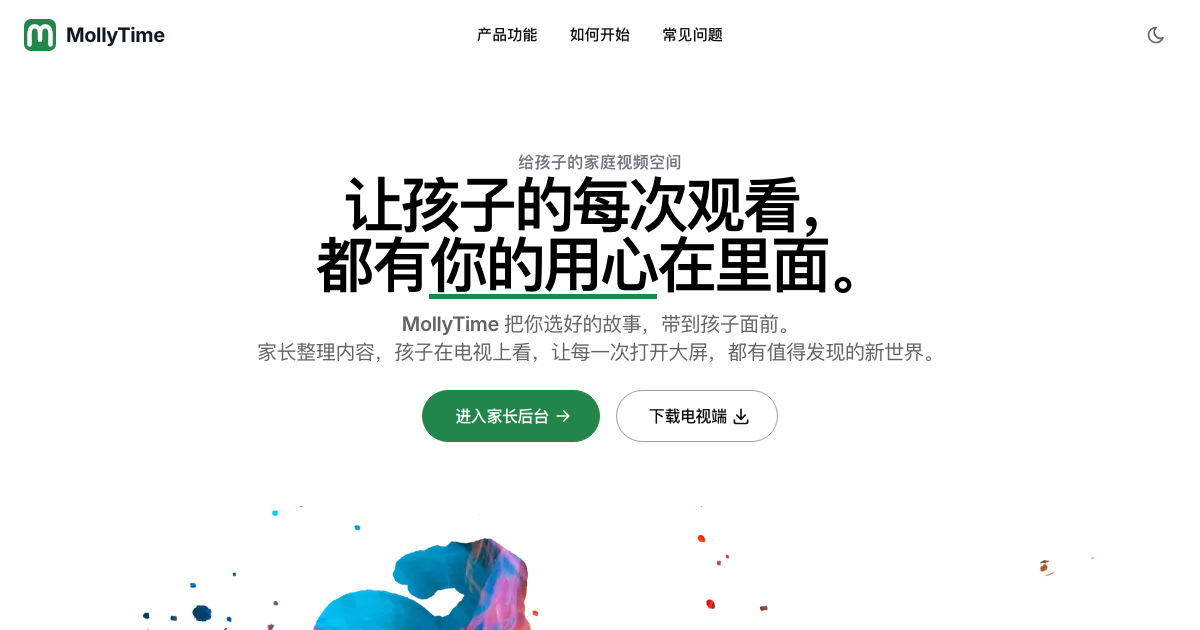
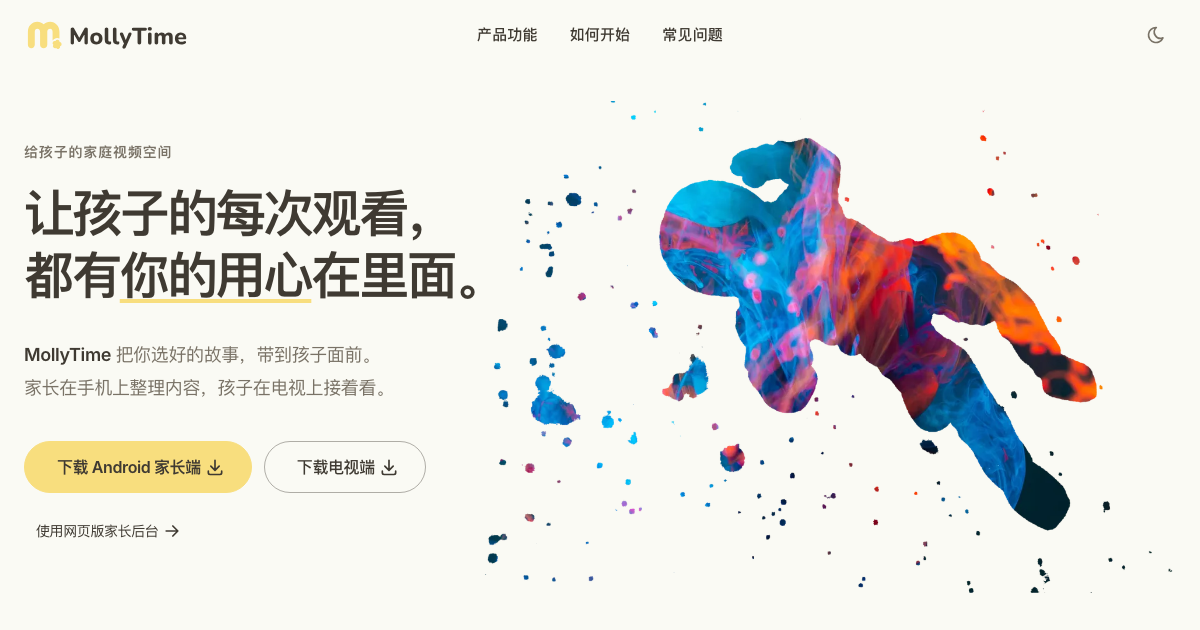
style(site): compose homepage around full-color explorer artwork
Separate the headline and download area from the full-color illustration, align the desktop grid with navigation, and adapt the composition for phones. Restore dark-mode TV button contrast and refresh social previews. Site build and six browser checks pass; layouts verified from 320 to 1920 pixels.

diff --git a/apps/site/tests/site.spec.ts b/apps/site/tests/site.spec.ts
@@ -34,6 +34,7 @@ test('homepage has working navigation, metadata, FAQ and no browser errors', asy
   await page.getByRole('button', { name: '切换深浅色主题' }).click();
   await expect(page.locator('html')).toHaveClass(/dark/);
   await expect(page.getByRole('button', { name: '下载 Android 家长端' })).toHaveCSS('color', 'rgb(63, 58, 50)');
+  await expect(page.getByRole('button', { name: '下载电视端' })).toHaveCSS('color', 'rgb(234, 229, 217)');
   await capture(page, 'test-results/dark.png');
   await page.getByRole('button', { name: '切换深浅色主题' }).click();
   await expect(page.locator('html')).not.toHaveClass(/dark/);

diff --git a/apps/site/README.md b/apps/site/README.md
@@ -19,7 +19,7 @@ pnpm --dir apps/site test # 在构建后验证静态页面及下载逻辑
 
 首屏主按钮下载 Android 家长端，旁边保留电视端下载，下方可进入网页版家长后台。下载按钮按点击读取 `/api/client/releases/latest?packageName=…` 的对应正式频道（家长端 `com.molly.parent`、电视端 `com.molly.tv`），后续发版无需修改官网链接。未发布、超时和失败都有独立提示，重试无需刷新页面。只接受同源、符合所选客户端 API 路径的安装包地址。
 
-配图沿用 AstroWind 模板，原版 Unsplash 照片下载到本地，避免加载外部图片。彩色探索者插画作为首屏装饰背景，按屏幕裁切，并以随主题变化的遮罩保证文字与下载入口清晰；下方不再重复展示插画。文案围绕已有功能，不承诺预置内容或所有品牌电视兼容。首页精简为首屏、核心功能、开始使用和 FAQ。安装包下载由首屏按钮直接触发，没有底部下载卡片和页脚。
+配图沿用 AstroWind 模板，原版 Unsplash 照片下载到本地，避免加载外部图片。首屏由 `HomeHero.astro` 排版：桌面端左侧标题与下载入口，右侧原色探索者铺入背景；手机端将人物移到文案下方，以完整色彩和图文留白保证阅读，不使用淡化、滤镜或覆盖图片的遮罩。文案围绕已有功能，不承诺预置内容或所有品牌电视兼容。首页精简为首屏、核心功能、开始使用和 FAQ。安装包下载由首屏按钮直接触发，没有底部下载卡片和页脚。
 
 `src/assets/images/share.png` 是社交分享预览图，`public/site/share.png` 保留一份直链副本。页面设计变化后，启动 `make site`，运行 `node apps/site/scripts/share.mjs` 重新导出，再构建。
 
